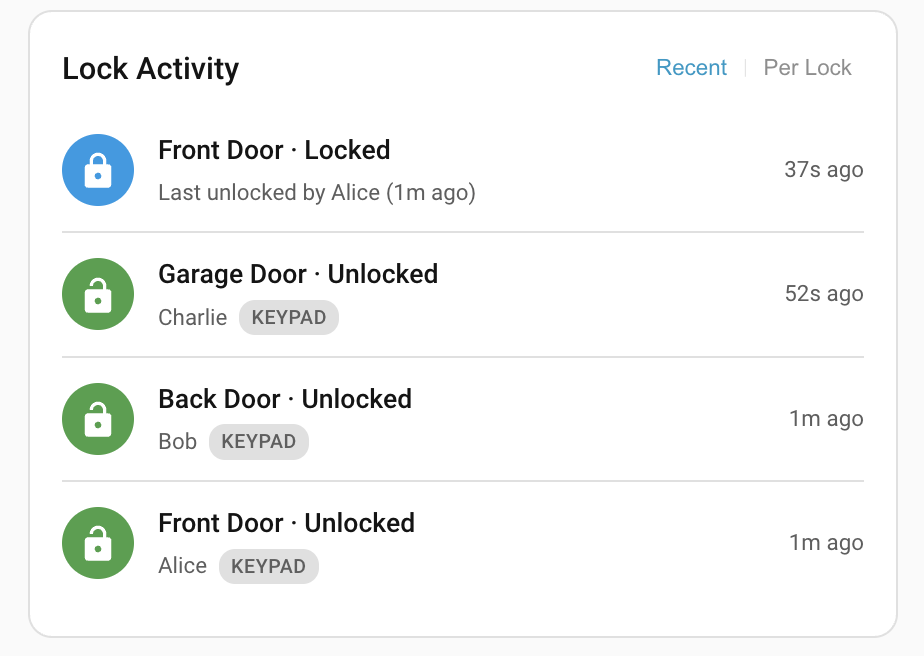
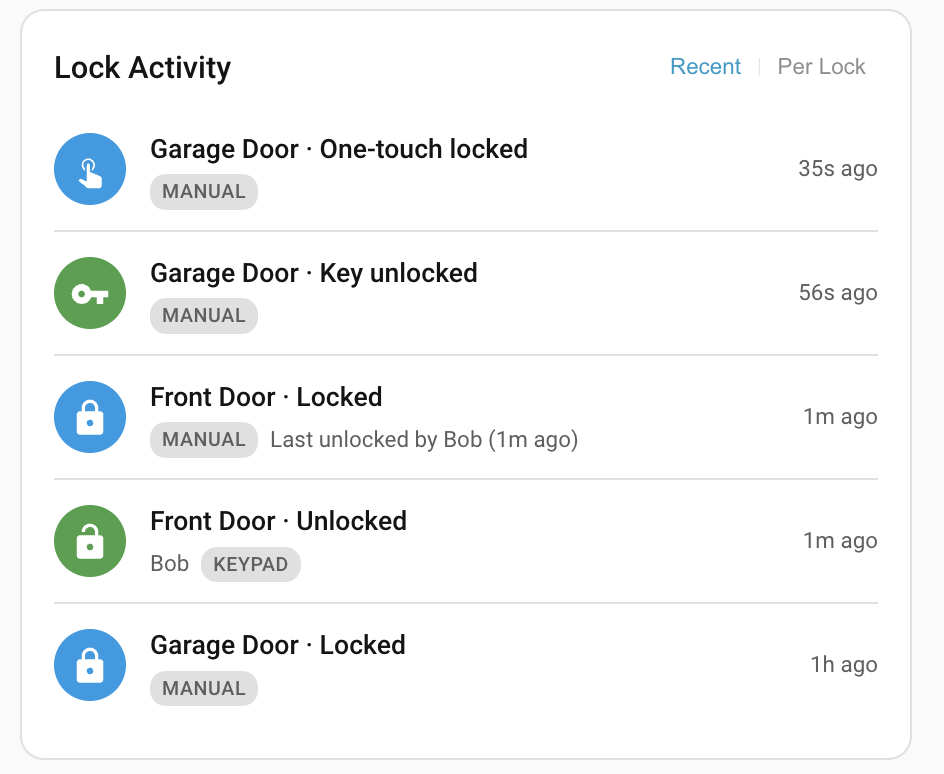
Update README with activity dedup docs and replay tool usage

diff --git a/README.md b/README.md
@@ -111,8 +111,10 @@ and safe.
     <td width="40%">
       <strong>See who unlocked your doors</strong><br />
       The Lock Activity card shows recent lock events across all your managed
-      locks — who unlocked, how, and when. Toggle between a chronological feed
-      and a per-lock summary. Click any entry to jump to that lock's history.
+      locks — who unlocked, how, and when. Redundant events (firmware echoes,
+      duplicate automation commands) are automatically collapsed. Toggle between
+      a chronological feed and a per-lock summary that highlights the last
+      identified user. Click any entry to jump to that lock's history.
     </td>
     <td width="60%">
       <a href="https://raw.githubusercontent.com/bharat/homeassistant-lockly/main/assets/lockly-activity-card.png">
@@ -140,8 +142,11 @@ and safe.
 - Simulate changes without sending MQTT commands.
 - Choose a Lockly instance per card and preview the card live while configuring.
 - Pick locks and lock groups directly from the visual editor.
-- Track lock activity — see who unlocked each door, when, and how (keypad, RFID, manual, remote).
+- Track lock activity — see who unlocked each door, when, and how (keypad, RFID, manual, automation).
+- Smart deduplication collapses firmware echoes and redundant automation locks while preserving the raw event log.
+- Per-lock view shows the last identified user who unlocked each door, so you always know who came in.
 - Activity data persists across restarts and integrates with HA's built-in logbook.
+- Reconstruct activity history from Zigbee2MQTT logs with the included replay tool.
 
 ## Installation (HACS)
 
@@ -201,8 +206,17 @@ and copy the entry ID shown in the options dialog.
 
 The Lock Activity card shows recent lock events — who unlocked, the method, and
 when. It supports two views: **Recent** (chronological) and **Per Lock** (latest
-event per lock). Activity survives HA restarts and also appears as rich entries
-in the built-in logbook.
+event per lock with the last identified unlocker). Activity survives HA restarts
+and also appears as rich entries in the built-in logbook.
+
+Events are stored raw and deduplicated at display time, so no data is lost:
+
+- **Firmware echoes** — `manual_lock` + `lock(rf)` pairs from a single Zigbee
+  command are collapsed into one "Locked (AUTOMATION)" entry (5 s window).
+- **Same-action repeats** — duplicate `lock` commands from overlapping
+  automations are collapsed, keeping the first (5 s window).
+- **Deliberate physical + redundant automation** — a `one_touch_lock` followed
+  by a redundant automation `lock` keeps the physical action (60 s window).
 
 ```yaml
 type: custom:lockly-activity-card
@@ -242,6 +256,27 @@ Enable "Simulation mode (no MQTT)" to test the UI without touching locks.
 - `lockly.import_slots`
 
 See `custom_components/lockly/services.yaml` for fields and descriptions.
+
+## Rebuilding Activity from Z2M Logs
+
+If you want to reconstruct your activity history from Zigbee2MQTT log files
+(e.g. after a fresh install, or to iterate on dedup rules without losing data),
+use the included replay script:
+
+```bash
+# Preview parsed events
+python scripts/replay_z2m_log.py /path/to/z2m/log.log --tz-offset -8
+
+# Write directly to the HA store, resolving slot names automatically
+python scripts/replay_z2m_log.py /path/to/z2m/log.log \
+    --tz-offset -8 \
+    --slots-store /config/.storage/lockly_slots.YOUR_ENTRY_ID \
+    --store-path /config/.storage/lockly_activity.YOUR_ENTRY_ID
+```
+
+Stop HA before writing and restart it afterward so the integration picks up the
+new data. The `--slots-store` flag reads slot-to-name mappings from the existing
+Lockly slots file; use `--slots '{"7": "Name"}'` for manual overrides.
 
 ## Export & Import
 
